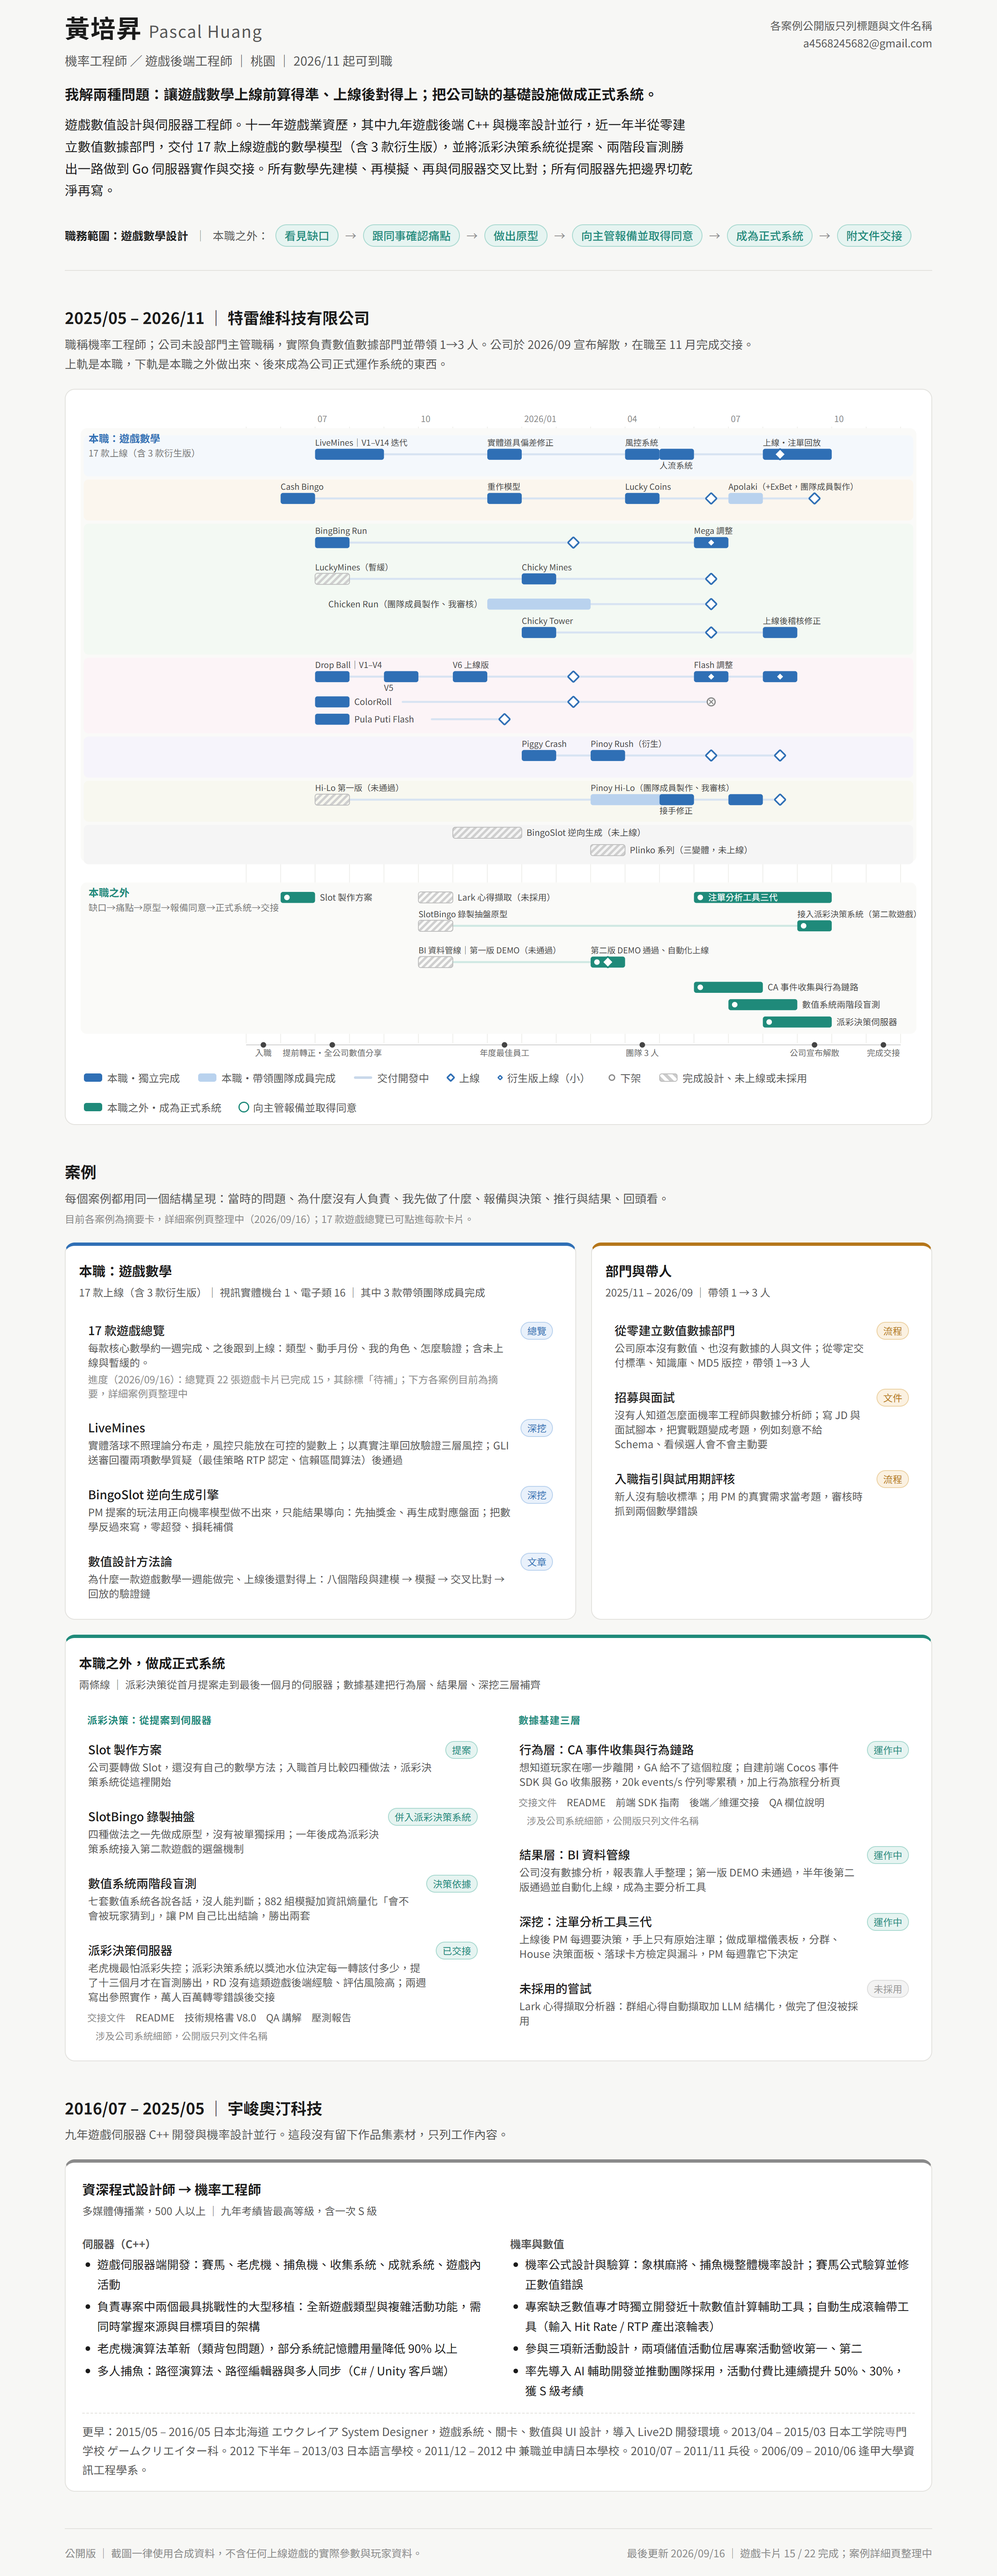
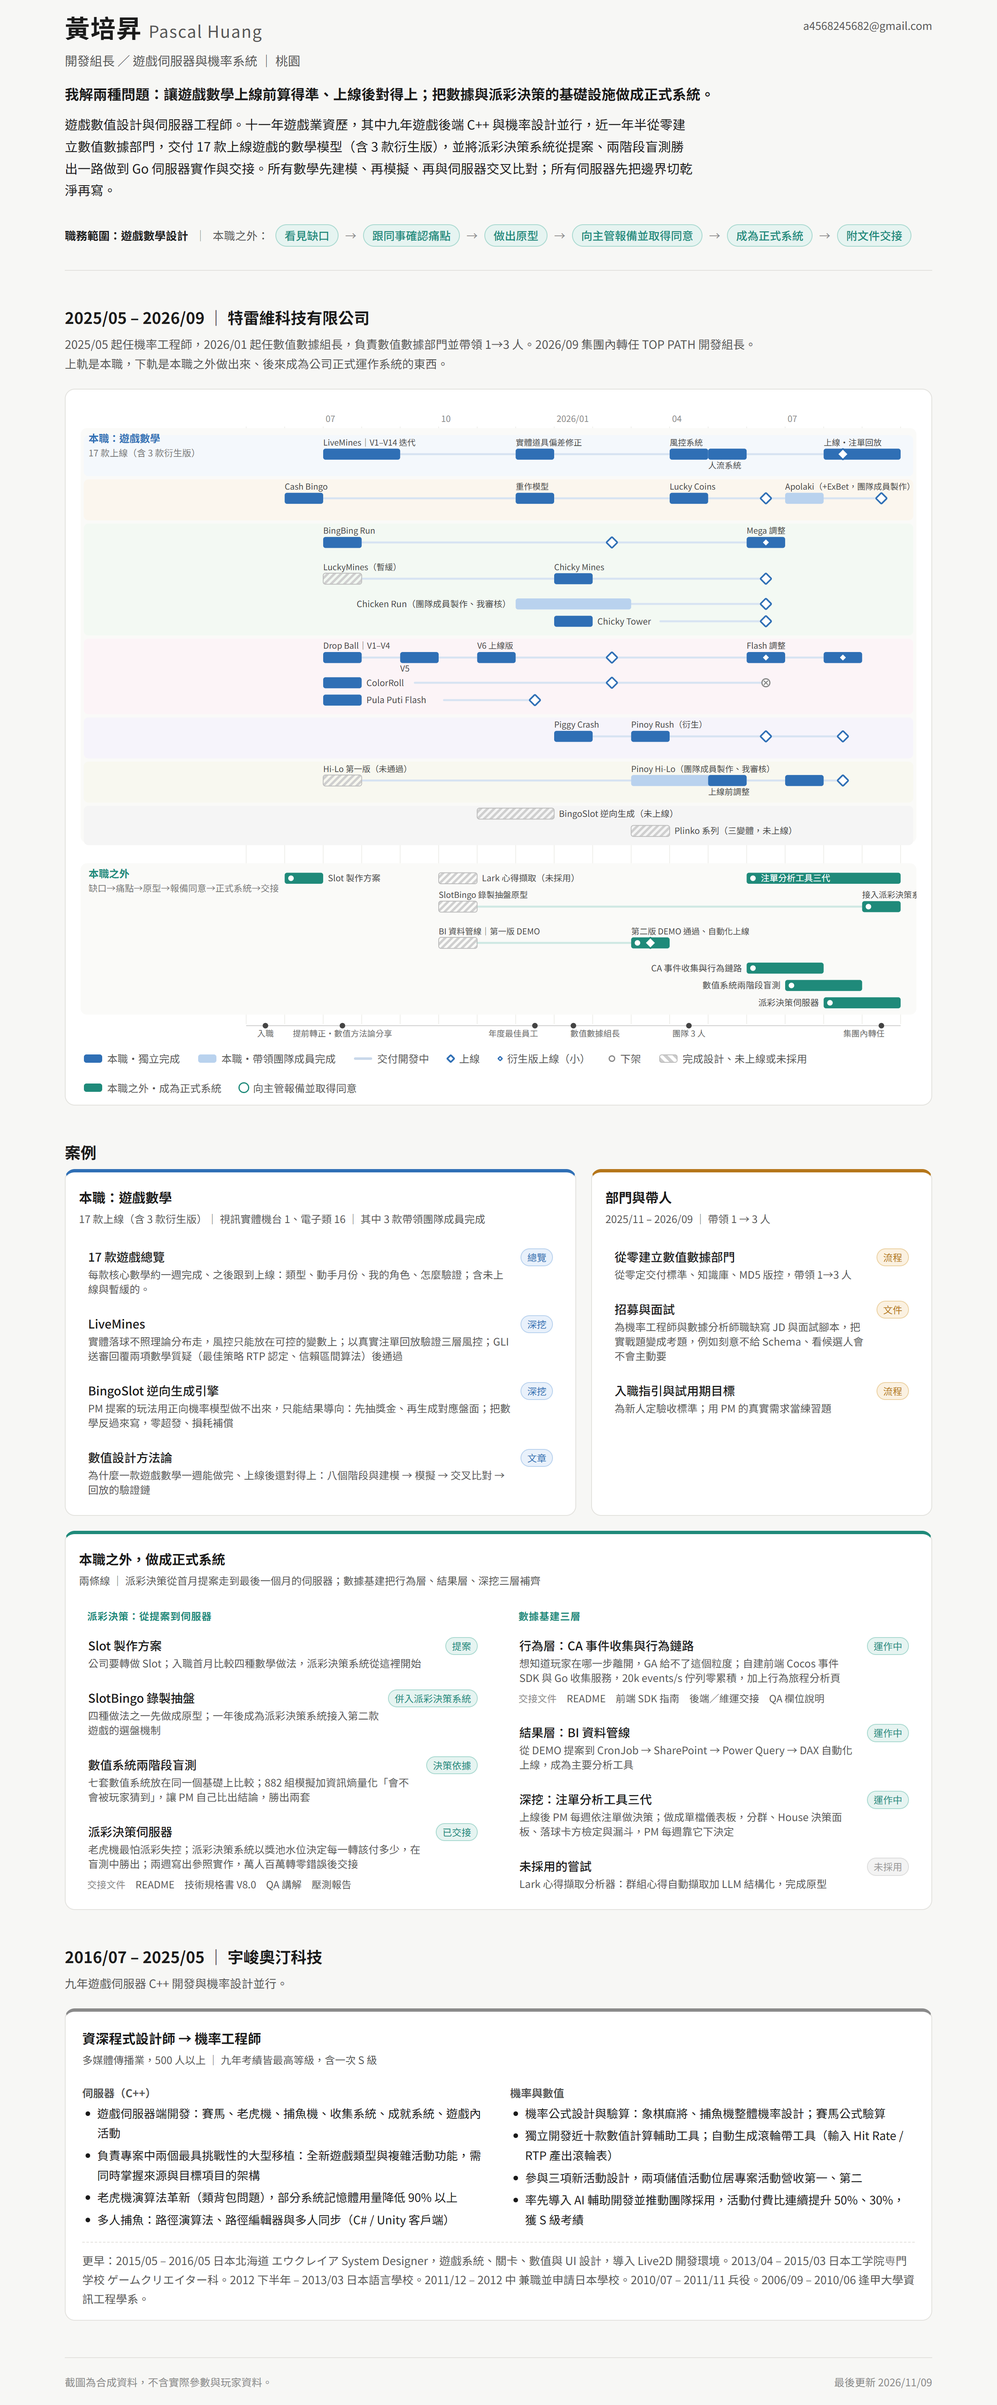
重產 overview.png（v1.23 中性文字）；頁尾更新日期改 2026/11

diff --git a/games.html b/games.html
@@ -160,7 +160,7 @@
 
 <footer>
   <span>遊戲畫面為對外公開的產品畫面，不含實際參數與玩家資料。</span>
-  <span>最後更新 2026/09</span>
+  <span>最後更新 2026/11</span>
 </footer>
 </div>
 

diff --git a/index.html b/index.html
@@ -242,7 +242,7 @@
 
 <footer>
   <span>截圖為合成資料，不含實際參數與玩家資料。</span>
-  <span>最後更新 2026/09/23</span>
+  <span>最後更新 2026/11/09</span>
 </footer>
 </div>
 
